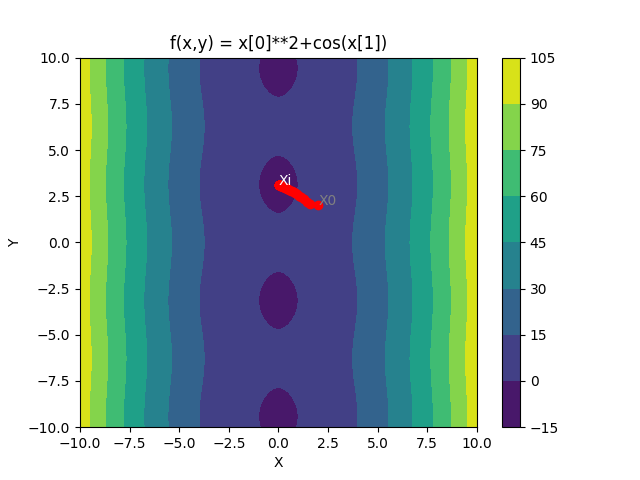
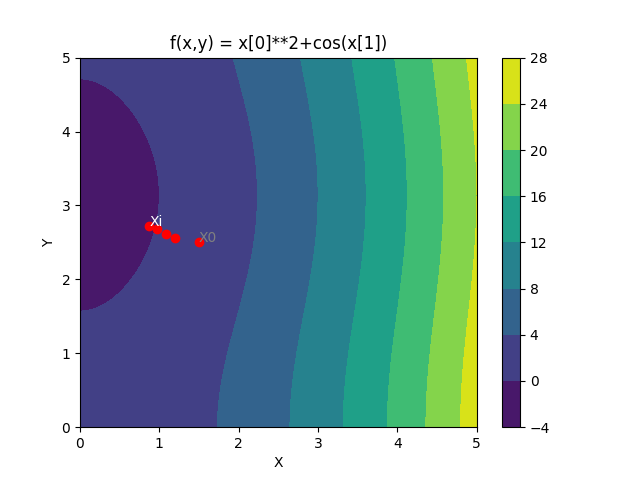
Changed errors

diff --git a/main.py b/main.py
@@ -7,26 +7,17 @@ import sympy as sympy
 from sympy import *
 
 def func(x):
-    return eval(values["-WZOR-"])
+    return eval(values["-WZOR-"])-eval(values["-STOP-WARTOSC-"])
 
-def funcKolo(fun, x):
-    # TU WPISUJE 3 ROZNE FUNCJE KARY
+def funcKolo(x):
     # KOLO (O SRODKU W PUNKCIE (2,3) i PROMIENIU 1)
-    # f = log(-1*(x[0]-2)**2-1*(x[1]-3)**2+1)
-    # KWADRAT (O SRODKU W PUNKCIE (2, 3) I BOKU DDLUGOSCI 2)
-    # g = log(x[0]-1) + log(3-x[0]) + log(x[1]-4) + log(2-x[1])
-
-    f = log(-1 * (x[0] - 2) ** 2 - 1 * (x[1] - 3) ** 2 + 1)
-    return fun - math.log(-1 * (x[0] - 2) ** 2 - 1 * (x[1] - 3) ** 2 + 1)
+    return math.log(-1 * (x[0] - 2) ** 2 - 1 * (x[1] - 3) ** 2 + 1)
 
 def funcKwadrat(fun, x):
     # KWADRAT (O SRODKU W PUNKCIE (2, 3) I BOKU DDLUGOSCI 2)
-    g = log(x[0]-1) + log(3-x[0]) + log(x[1]-4) + log(2-x[1])
-    return fun - g
-def funcPolkole(fun, x):
-    # POLKOLE
-    h = log(-0.5*(x[0]-2)-0.5*(x[1]-2)+2) + log(2-x[1])
-    return fun - h
+    return math.log(x[0]-1) + math.log(3-x[0]) + math.log(x[1]-4) + math.log(2-x[1])
+def funcPolkole(x):
+    return math.log(-0.5*(x[0]-2)-0.5*(x[1]-2)+2) + math.log(2-x[1])
 
 def funcWykres(x):
     return eval(values["-WZOR-"])
@@ -48,7 +39,7 @@ def getGrad(x0):
     grad_fx = []
     subs = assign_values_in_point(f_variables, x0)
     for variable in f_variables:
-        grad_fx.append(diff(funcKolo(func, f_variables), variable).evalf(subs=subs))
+        grad_fx.append(diff(func(f_variables), variable).evalf(subs=subs))
     return grad_fx
 
 
@@ -142,21 +133,21 @@ layout = [
     [simpleGui.InputText("1.5 2.5", key="-X0-", size=(5, 1))],
 
     [simpleGui.Text("Obszar ograniczający:")],
-    [simpleGui.Listbox(values=["Koło", "Kwadrat"], key="-STOP-", size=(20, 2))],
+    [simpleGui.Listbox(values=["Koło", "Półkole", "Kwadrat"], key="-STOP-", size=(20, 2))],
     [simpleGui.InputText("9", key="-STOP-WARTOSC-", size=(5, 1))],
 
     [simpleGui.HSeparator()],
     [simpleGui.Text("Zakresy wykresu dla funkcji 2 zmiennych:")],
 
     [simpleGui.Text("Wartości X:")],
-    [simpleGui.InputText("-10", key="-X1-", size=(5, 1))],
+    [simpleGui.InputText("0", key="-X1-", size=(5, 1))],
     [simpleGui.Text("do:")],
-    [simpleGui.InputText("10", key="-Y1-", size=(5, 1))],
+    [simpleGui.InputText("5", key="-Y1-", size=(5, 1))],
 
     [simpleGui.Text("Wartości Y:")],
-    [simpleGui.InputText("-10", key="-X2-", size=(5, 1))],
+    [simpleGui.InputText("0", key="-X2-", size=(5, 1))],
     [simpleGui.Text("do:")],
-    [simpleGui.InputText("10", key="-Y2-", size=(5, 1))],
+    [simpleGui.InputText("5", key="-Y2-", size=(5, 1))],
 
     [simpleGui.Text(key="-KOMUNIKAT-", size=(30, 1))],
     [simpleGui.Button("Szukaj minimum", key="-OK-")]
@@ -180,6 +171,8 @@ while True:
         x_start = [float(i) for i in x_start]
         if values["-STOP-"][0] == "Koło":
             warunekStopu = funcKolo
+        elif values["-STOP-"][1] == "Półkole":
+            warunekStopu = funcPolkole
         else:
             warunekStopu = funcKwadrat
         while mu > 0.01:
